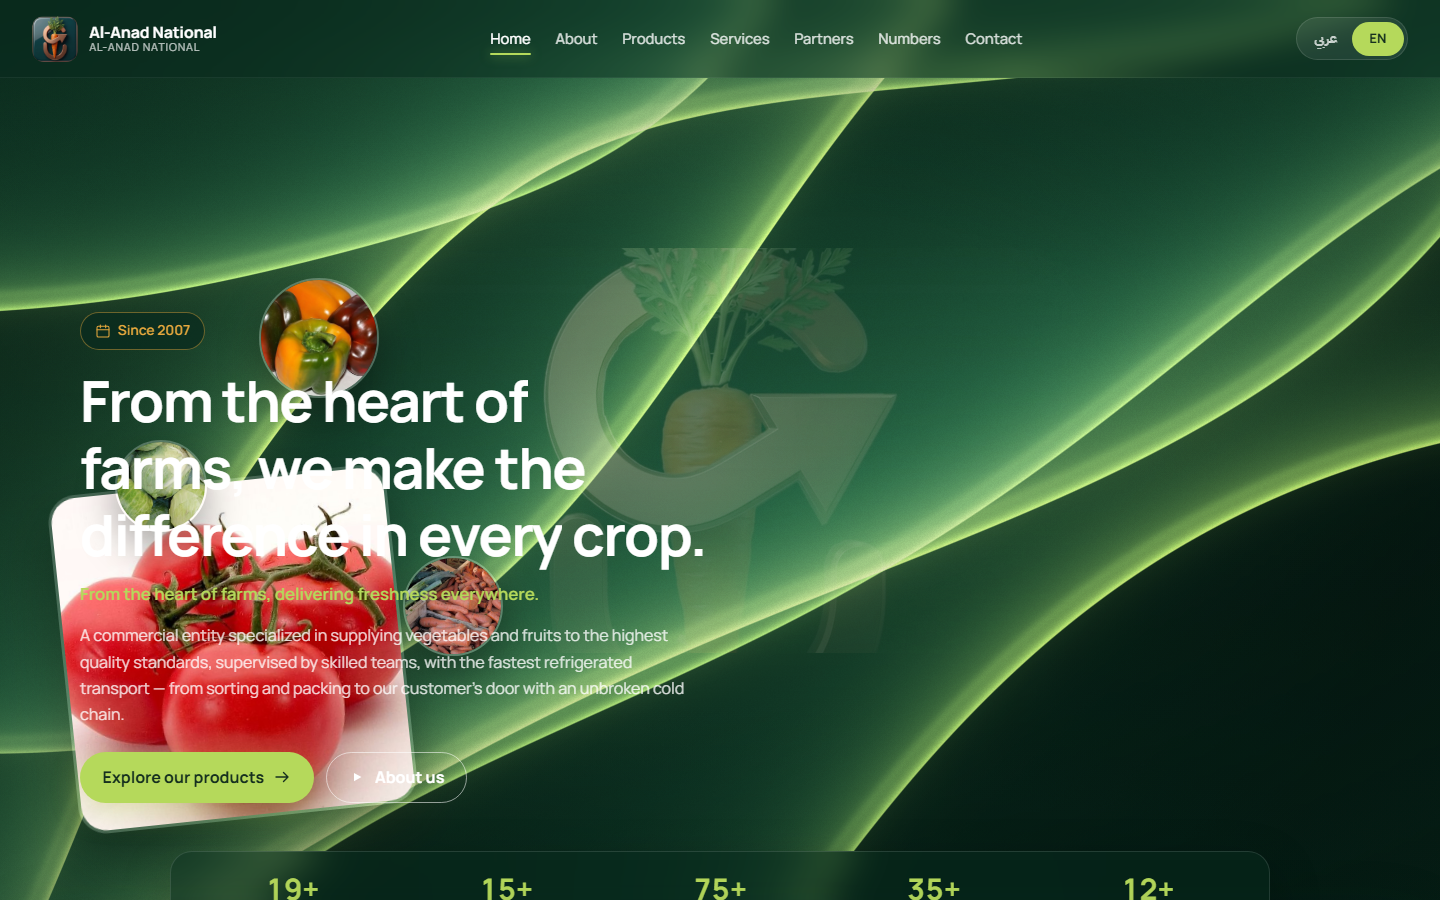
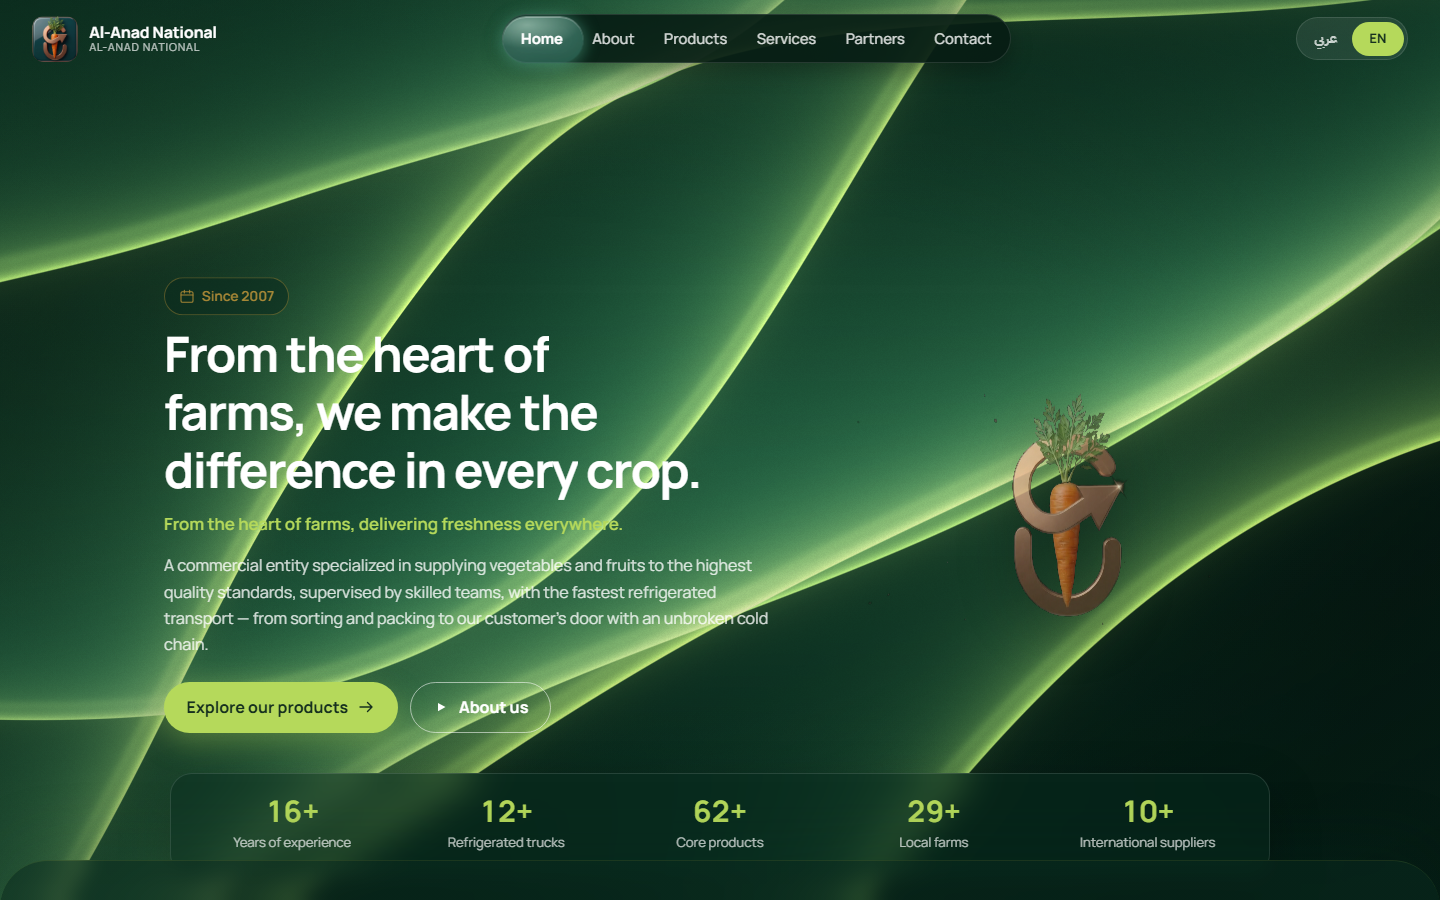
fix: polish full-site English LTR experience
Reset split-text transforms on lang switch so EN hero copy is not clipped, hide duplicate EN product lines, clean filter labels, and sync meta/brand aria for English.

diff --git a/src/main.js b/src/main.js
@@ -43,6 +43,16 @@ function applyI18n(locale) {
       ? 'العناد الوطنية | توريد الخضار والفواكه'
       : 'Al-Anad National | Fresh produce supply';
 
+  const meta = document.querySelector('meta[name="description"]');
+  if (meta) {
+    meta.setAttribute(
+      'content',
+      locale === 'ar'
+        ? 'العناد الوطنية — كيان تجاري منذ 2007 متخصص بتوريد المحاصيل الزراعية بأعلى معايير الجودة وسلسلة تبريد لا تنقطع.'
+        : 'Al-Anad National — since 2007, supplying fresh produce to the highest quality standards with an unbroken cold chain.',
+    );
+  }
+
   document.querySelectorAll('[data-i18n]').forEach((el) => {
     const value = getByPath(dict, el.dataset.i18n);
     if (typeof value === 'string') el.textContent = value;
@@ -60,6 +70,14 @@ function applyI18n(locale) {
 
   document.querySelectorAll('.produce-name[data-name-ar]').forEach((el) => {
     el.textContent = locale === 'en' ? el.dataset.nameEn : el.dataset.nameAr;
+  });
+
+  const brandName = dict.brand?.name || '';
+  document.querySelectorAll('.nav__brand').forEach((el) => {
+    if (brandName) el.setAttribute('aria-label', brandName);
+  });
+  document.querySelectorAll('.nav__logo, .footer img[alt]').forEach((el) => {
+    if (brandName) el.setAttribute('alt', brandName);
   });
 
   document.querySelectorAll('.lang__btn').forEach((btn) => {
@@ -85,6 +103,8 @@ function splitHeadings() {
       .map((w) => `<span class="split-w"><span>${w}</span></span>`)
       .join(' ');
   });
+  // Lang switch rebuilds nodes after intro tweens — clear leftover yPercent clips
+  gsap.set('[data-split] .split-w > span', { yPercent: 0, clearProps: 'transform' });
 }
 
 function renderPartners() {
@@ -528,9 +548,16 @@ function initUI() {
     btn.addEventListener('click', () => {
       const next = btn.dataset.lang;
       if (!next || next === langNow()) return;
+      // Kill split intros so rebuilt EN/AR words are not left translated off-screen
+      gsap.killTweensOf('[data-split] .split-w > span');
       applyI18n(next);
       splitHeadings();
+      // Force reveal copy that may still be mid hero intro tween
+      gsap.set('.hero__sub, .hero__lead, .hero__ctas .btn, .hero__badge, .hero__stats', {
+        clearProps: 'opacity,transform',
+      });
       ScrollTrigger.refresh();
+      requestAnimationFrame(() => liquidNav?.refresh?.());
     });
   });
 

diff --git a/src/effects/produce-slider/mount.js b/src/effects/produce-slider/mount.js
@@ -108,8 +108,27 @@ export function mountProduceSlider(section, opts = {}) {
     });
     const headingEn = section.querySelector('.heading-en');
     if (headingEn) {
-      headingEn.textContent =
-        lang === 'en' ? 'FRESHNESS IN EVERY HARVEST' : 'Our Fresh Products';
+      // English subtitle under Arabic title — hide when UI is already EN
+      headingEn.hidden = lang === 'en';
+      headingEn.textContent = 'Our Fresh Products';
+    }
+    const filterNavEl = section.querySelector('.category-nav');
+    if (filterNavEl) {
+      filterNavEl.setAttribute(
+        'aria-label',
+        lang === 'en' ? 'Filter products' : 'تصفية المنتجات',
+      );
+      const allSmall = filterNavEl.querySelector('button[data-filter="all"] small');
+      if (allSmall) {
+        allSmall.textContent = lang === 'en' ? `${all.length} varieties` : `ALL · ${all.length}`;
+      }
+    }
+    const pagination = section.querySelector('.pagination');
+    if (pagination) {
+      pagination.setAttribute(
+        'aria-label',
+        lang === 'en' ? 'Choose product' : 'اختر منتجاً',
+      );
     }
   }
 

diff --git a/index.html b/index.html
@@ -386,21 +386,21 @@
               <span class="tab-icon">✦</span
               ><span
                 ><b data-ar="الكل" data-en="All">الكل</b
-                ><small>ALL · 75</small></span
+                ><small data-ar="ALL · 75" data-en="75 varieties">ALL · 75</small></span
               >
             </button>
             <button type="button" data-filter="fruit">
               <span class="tab-icon">✿</span
               ><span
                 ><b data-ar="فاكهة" data-en="Fruit">فاكهة</b
-                ><small>FRUIT</small></span
+                ><small data-ar="FRUIT" data-en="Fruit">FRUIT</small></span
               >
             </button>
             <button type="button" data-filter="veg">
               <span class="tab-icon">♢</span
               ><span
                 ><b data-ar="خضار" data-en="Vegetable">خضار</b
-                ><small>VEGETABLE</small></span
+                ><small data-ar="VEGETABLE" data-en="Vegetable">VEGETABLE</small></span
               >
             </button>
           </nav>

diff --git a/src/effects/produce-slider/styles.css b/src/effects/produce-slider/styles.css
@@ -333,6 +333,19 @@ html[dir='ltr'] #products .active-copy {
   letter-spacing: 0.18em;
   text-transform: uppercase;
 }
+#products .active-en[hidden] {
+  display: none !important;
+}
+#products .section-heading .heading-en[hidden] {
+  display: none !important;
+}
+html[dir='ltr'] #products .category-nav small {
+  /* Avoid "Fruit / FRUIT" duplication in English */
+  display: none;
+}
+html[dir='ltr'] #products .category-nav button[data-filter='all'] small {
+  display: block;
+}
 #products .active-copy p {
   color: #e0eadb;
   font-size: 15px;

diff --git a/src/styles/main.css b/src/styles/main.css
@@ -643,12 +643,12 @@ html[dir='rtl'] .btn__arrow {
   max-width: 640px;
   margin: 0;
   padding-bottom: 0.5rem;
-  direction: rtl;
+  direction: inherit;
   text-align: start;
 }
 
-html[dir='ltr'] .hero__content {
-  direction: ltr;
+html[dir='ltr'] .hero__title {
+  font-size: clamp(1.75rem, 3.8vw, 3.05rem);
 }
 
 .hero__brand-float {
